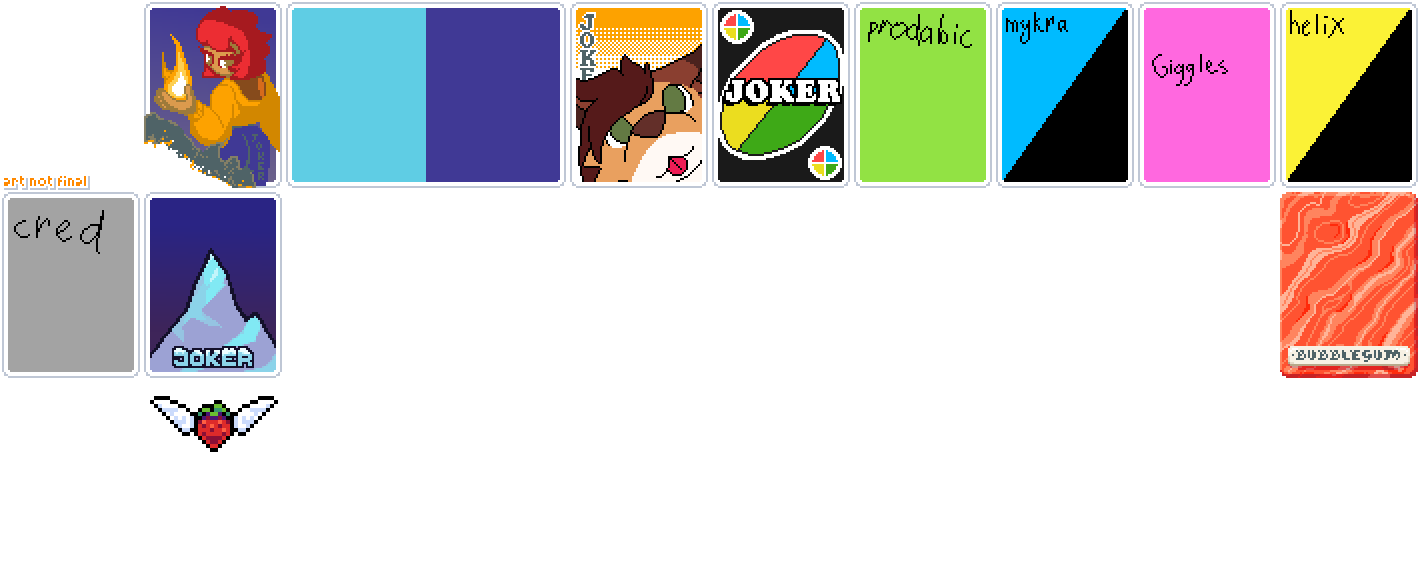
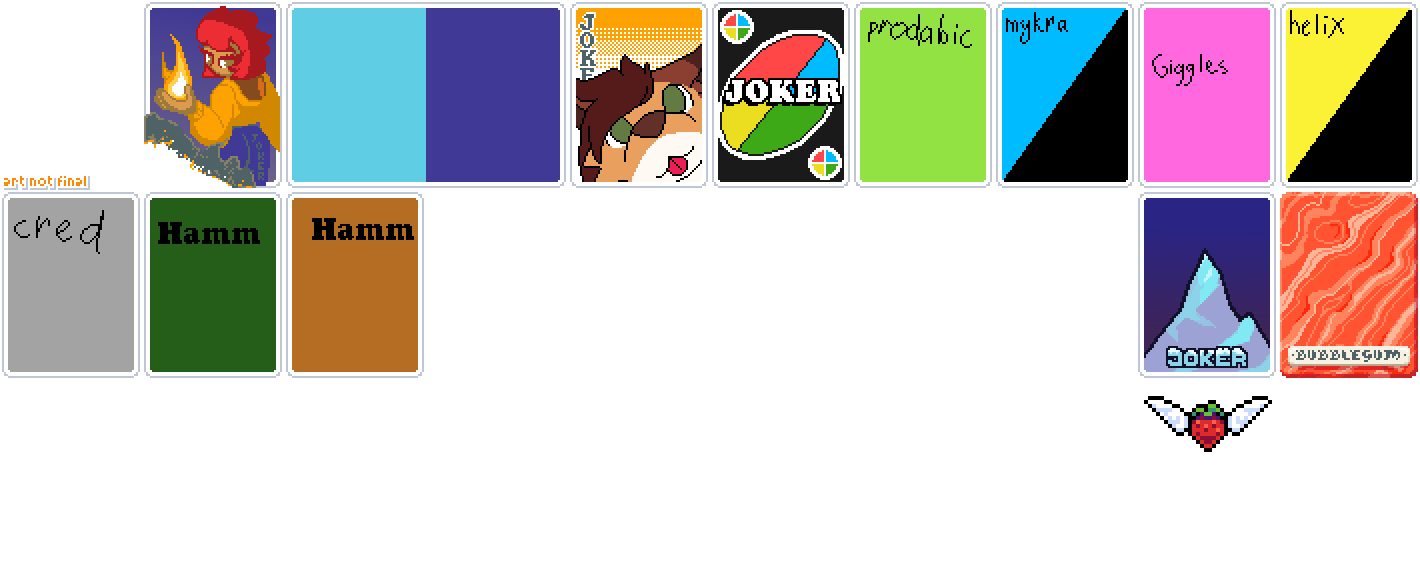
V 0.5.0

Changed region(s): [[0.093, 0.3281, 0.3099, 0.686], [0.8056, 0.3281, 0.8986, 0.8053], [0.093, 0.686, 0.2169, 0.8053]]

diff --git a/README.md b/README.md
@@ -24,7 +24,7 @@ each joker represents us and our ocs as people along with a few inside jokes:
 - Roulette                    [Rare]
   - Random chance to act as either Flame Noble, Heavenly Kitsune, Arcane-nine or Quick Fox
 - Bubblegum                   [Legendary]
-  - X0.25 mult for every follower on Alpha's BlueSky Account
+  - X0.2 mult for every follower on Alpha's BlueSky Account
   (This is a blatant copy of the Elle card from "[ellejokers.](https://github.com/ellestuff/ellejokers)". that is the entire joke about this card, and she knew of this before I even published this card in update 0.4.0.)
 - **And more!!**
 

diff --git a/changelog.md b/changelog.md
@@ -189,3 +189,12 @@ before they stop being effective.
 - Fixed the trigger message problem mentioned last update.
 
 - Updated mod requirements to reflect upcoming cards along with adding links to each requirement.
+
+## V 0.5.0
+
+- Updated Joker Badges.
+
+- Added Bankroll Joker card
+  - Gamble away half your total $$$, either:
+    - Win double your money back.
+    - double current blind requirement.
